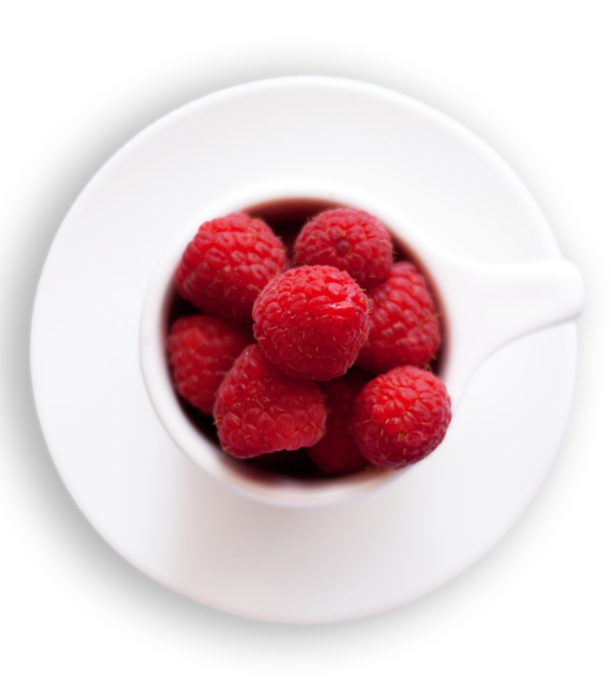
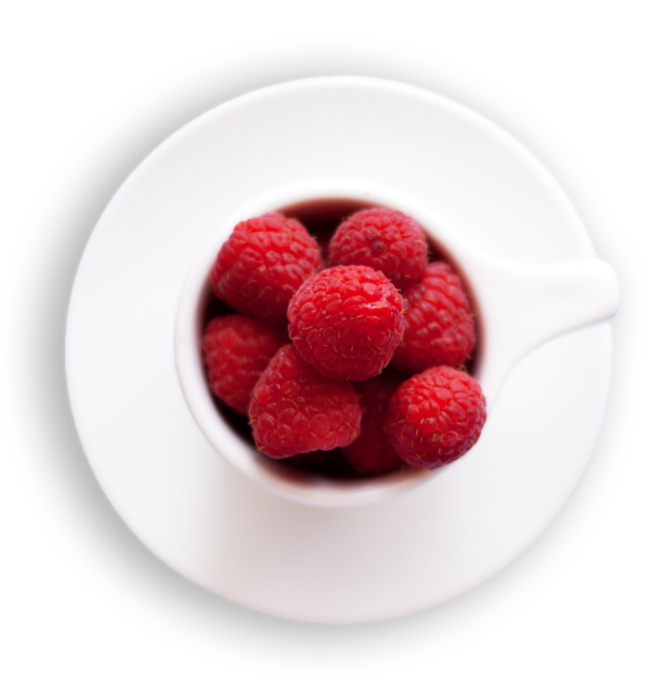
optimalization
need rework

Changed region(s): [[0.2177, 0.27, 0.7774, 0.72], [0.0, 0.12, 0.4043, 0.84], [0.311, 0.84, 0.3732, 0.87]]

diff --git a/index.html b/index.html
@@ -94,7 +94,6 @@
     <!-- ABOUT -->
     <section id="about" class="container-fluid about">
         <div class="row">
-            <!--    <img class="img-fluid col-lg-6 col-lg-offset-6 col-xs-12 col-sm-12 col-md-12" src="IMG/about__img.png" alt="About complany"> -->
 
             <div class="col-lg-6 col-xs-12 col-sm-12 col-md-6">
                 <!--  -->
@@ -103,7 +102,7 @@
 
             </div>
             <div class="col-xs-12 col-sm-12 col-md-6  col-lg-6 col-lg-offset-6 col-lg-push-6">
-                <img class="img-fluid" src="IMG/abb_03.png" alt="About company">
+                <img class="img-fluid" src="IMG/about__img.png" alt="About company">
 
             </div>
         </div>
@@ -169,67 +168,72 @@
 
         <form action="">
             <div class="row">
-                <div class="col-sm-12 col-xs-12 col-md-6 col-lg-6"> 
-                   <input class="contact__input" type="text" placeholder="Your name"></div>
-                    <div class="col-sm-12 col-xs-12 col-md-6 col-lg-6"> 
-                    <button class="btn btn-primary subscribe__btn">SUBSCRIBE</button></div></div>
+                <div class="col-sm-12 col-xs-12 col-md-6 col-lg-6">
+                    <input class="contact__input" type="text" placeholder="Your name"></div>
+                <div class="col-sm-12 col-xs-12 col-md-6 col-lg-6">
+                    <button class="btn btn-primary subscribe__btn">SUBSCRIBE</button></div>
+            </div>
         </form>
-        <img src="IMG/subscribe__img.png" alt="Subscribe" class="img-fluid"></div> </section>
+        <img src="IMG/subscribe__img.png" alt="Subscribe" class="img-fluid"></div>
+    </section>
 
 
-        <!-- BLOG -->
+    <!-- BLOG -->
 
-        <section id="blog" class="blog">
+    <section id="blog" class="blog">
 
-            <h1 class="blog__heading">Blog</h1>
-            <p>Dolore magna aliqua. Ut enim ad minim veniam, quis nostrud exercitation ullamco laboris nisi ut aliquip ex ea commodo consequat. Duis aute irure dolor in reprehenderit in voluptate velit.</p>
+        <h1 class="blog__heading">Blog</h1>
+        <p>Dolore magna aliqua. Ut enim ad minim veniam, quis nostrud exercitation ullamco laboris nisi ut aliquip ex ea commodo consequat. Duis aute irure dolor in reprehenderit in voluptate velit.</p>
 
-            <div class="row">
+        <div class="row">
 
-                <div class="col-xs-12 col-sm-12 col-md-12 col-lg-4 blog__item">
-                    <img class="center-block blog__img" src="IMG/blog__1.png" alt="Blog">
-                    <h2>Green Smoothies : Too Much of a Good Thing?</h2>
-                    <h3>By Simon - 2 hours ago</h3>
-                    <div>
-                        <time>20</time>
-                        <time>NOV</time>
-                    </div>
-                </div>
-
-                <div class="col-xs-12 col-sm-12 col-md-12 col-lg-4 blog__item">
-                    <img class="center-block blog__img" src="IMG/blog__2.png" alt="Blog">
-                    <h2>Growing Food and a "Thirst" for Innovation</h2>
-                    <h3>By Meliss - 3 hours ago</h3>
-                    <div>
-                        <time>14</time>
-                        <time>NOV</time>
-                    </div>
-                </div>
-
-                <div class="col-xs-12 col-sm-12 col-md-12 col-lg-4 blog__item">
-                    <img class="center-block blog__img" src="IMG/blog__3.png" alt="Blog">
-                    <h2>Pesticides &amp Food : What You Need to Know</h2>
-                    <h3>By Melania - 6 hours ago</h3>
-                    <div>
-                        <time>10</time>
-                        <time>NOV</time>
-                    </div>
+            <div class="col-xs-12 col-sm-12 col-md-12 col-lg-4 blog__item">
+                <img class="center-block blog__img" src="IMG/blog__1.png" alt="Blog">
+                <h2>Green Smoothies : Too Much of a Good Thing?</h2>
+                <h3>By Simon - 2 hours ago</h3>
+                <div>
+                    <time>20</time>
+                    <time>NOV</time>
                 </div>
             </div>
-            <button class="btn btn-primary">VIEW MORE</button>
-        </section>
 
-        <!-- CONTACT --->
+            <div class="col-xs-12 col-sm-12 col-md-12 col-lg-4 blog__item">
+                <img class="center-block blog__img" src="IMG/blog__2.png" alt="Blog">
+                <h2>Growing Food and a "Thirst" for Innovation</h2>
+                <h3>By Meliss - 3 hours ago</h3>
+                <div>
+                    <time>14</time>
+                    <time>NOV</time>
+                </div>
+            </div>
 
-        <section id="contact" class="container-fluid contact">
-            <h1>Contact</h1>
-            <p>For new projects, ideas, business or anything you'd like to discuss, contact with me!</p>
+            <div class="col-xs-12 col-sm-12 col-md-12 col-lg-4 blog__item">
+                <img class="center-block blog__img" src="IMG/blog__3.png" alt="Blog">
+                <h2>Pesticides &amp Food : What You Need to Know</h2>
+                <h3>By Melania - 6 hours ago</h3>
+                <div>
+                    <time>10</time>
+                    <time>NOV</time>
+                </div>
+            </div>
+        </div>
+        <button class="btn btn-primary">VIEW MORE</button>
+    </section>
+
+    <!-- CONTACT --->
+
+    <section id="contact" class="container-fluid contact">
+        <h1>Contact</h1>
+        <p>For new projects, ideas, business or anything you'd like to discuss, contact with me!</p>
+        <div class="row">
+
             <form action="" class="col-xs-12 col-sm-12 col-md-12 col-lg-6 contact__form">
                 <input class="contact__input" type="text" placeholder="Your name">
                 <input class="contact__input" type="text" placeholder="Your email">
                 <input class="contact__input" type="text" placeholder="Your phone number">
                 <textarea class="contact__input contact__form" name="" id="" cols="30" rows="10"></textarea>
             </form>
+
             <div class="col-xs-12 col-sm-12 col-md-12 col-lg-6">
                 <h2>ADDRESS</h2>
                 <h3>123 City name Street, City, Country</h3>
@@ -240,35 +244,37 @@
                 <h2>PHONE</h2>
                 <h3>+012 345 6789</h3>
             </div>
-        </section>
+        </div>
+    </section>
 
 
 
-        <footer class="container-fluid footer">
-            <div class="row">
-                <!-- footer -->
+    <footer class="container-fluid footer">
+        <div class="row">
+            <!-- footer -->
 
-                <p class="paragraph footer__company  col-xs-12 col-sm-12 col-md-4 col-lg-4">&copy 2017 Company. All right reserved </p>
-                <p class="paragraph footer__logo  col-xs-12 col-sm-12 col-md-4 col-lg-4">Cahee</p>
-                <p class="paragraph footer__made  col-xs-12 col-sm-12 col-md-4 col-lg-4">Made with<span class="footer__love"> love </span>by S I M O N</p>
-            </div>
-        </footer>
+            <p class="paragraph footer__company  col-xs-12 col-sm-12 col-md-4 col-lg-4">&copy 2017 Company. All right reserved </p>
+            <p class="paragraph footer__logo  col-xs-12 col-sm-12 col-md-4 col-lg-4">Cahee</p>
+            <p class="paragraph footer__made  col-xs-12 col-sm-12 col-md-4 col-lg-4">Made with<span class="footer__love"> love </span>by S I M O N</p>
+        </div>
+    </footer>
 
 
-        <!-- Bootstrap core JavaScript -->
-        <script src="vendor/jquery/jquery.min.js"></script>
-        <script src="vendor/bootstrap/js/bootstrap.bundle.min.js"></script>
-        <!-- Smooth scroll -->
-        <script>
-            $(document).on('click', 'a[href^="#"]', function(event) {
-                event.preventDefault();
+    <!-- Bootstrap core JavaScript -->
+    <script src="vendor/jquery/jquery.min.js"></script>
+    <script src="vendor/bootstrap/js/bootstrap.bundle.min.js"></script>
+   
+     <!-- Smooth scroll -->
+    <script>
+        $(document).on('click', 'a[href^="#"]', function(event) {
+            event.preventDefault();
 
-                $('html, body').animate({
-                    scrollTop: $($.attr(this, 'href')).offset().top
-                }, 500);
-            });
+            $('html, body').animate({
+                scrollTop: $($.attr(this, 'href')).offset().top
+            }, 500);
+        });
 
-        </script>
+    </script>
 </body>
 
 </html>

diff --git a/CSS/style.css b/CSS/style.css
@@ -329,8 +329,6 @@ services__img {
     margin-bottom: 30px;
 }
 
-.blog__img {}
-
 
 .blog__img {
     background: -webkit-linear-gradient(rgba(255, 255, 255, 0), rgba(0, 0, 0, 0.5));

diff --git a/README.md b/README.md
@@ -1,62 +1,1 @@
-# [Start Bootstrap - Bare](https://startbootstrap.com/template-overviews/bare/)
-
-[Bare](http://startbootstrap.com/template-overviews/bare/) is a bare HTML starter template for [Bootstrap](http://getbootstrap.com/) created by [Start Bootstrap](http://startbootstrap.com/). This template features predefined file paths for Bootstrap and jQuery, so you can quickly create Bootstrap websites.
-
-## Preview
-
-[![Bare Preview](https://startbootstrap.com/assets/img/templates/bare.jpg)](https://blackrockdigital.github.io/startbootstrap-bare/)
-
-**[View Live Preview](https://blackrockdigital.github.io/startbootstrap-bare/)**
-
-## Status
-
-[![GitHub license](https://img.shields.io/badge/license-MIT-blue.svg)](https://raw.githubusercontent.com/BlackrockDigital/startbootstrap-bare/master/LICENSE)
-[![npm version](https://img.shields.io/npm/v/startbootstrap-bare.svg)](https://www.npmjs.com/package/startbootstrap-bare)
-[![Build Status](https://travis-ci.org/BlackrockDigital/startbootstrap-bare.svg?branch=master)](https://travis-ci.org/BlackrockDigital/startbootstrap-bare)
-[![dependencies Status](https://david-dm.org/BlackrockDigital/startbootstrap-bare/status.svg)](https://david-dm.org/BlackrockDigital/startbootstrap-bare)
-[![devDependencies Status](https://david-dm.org/BlackrockDigital/startbootstrap-bare/dev-status.svg)](https://david-dm.org/BlackrockDigital/startbootstrap-bare?type=dev)
-
-## Download and Installation
-
-To begin using this template, choose one of the following options to get started:
-* [Download the latest release on Start Bootstrap](https://startbootstrap.com/template-overviews/bare/)
-* Install via npm: `npm i startbootstrap-bare`
-* Clone the repo: `git clone https://github.com/BlackrockDigital/startbootstrap-bare.git`
-* [Fork, Clone, or Download on GitHub](https://github.com/BlackrockDigital/startbootstrap-bare)
-
-## Usage
-
-### Basic Usage
-
-After downloading, simply edit the HTML and CSS files included with the template in your favorite text editor to make changes. These are the only files you need to worry about, you can ignore everything else! To preview the changes you make to the code, you can open the `index.html` file in your web browser.
-
-### Advanced Usage
-
-After installation, run `npm install` and then run `gulp dev` which will open up a preview of the template in your default browser, watch for changes to core template files, and live reload the browser when changes are saved. You can view the `gulpfile.js` to see which tasks are included with the dev environment.
-
-## Bugs and Issues
-
-Have a bug or an issue with this template? [Open a new issue](https://github.com/BlackrockDigital/startbootstrap-bare/issues) here on GitHub or leave a comment on the [template overview page at Start Bootstrap](http://startbootstrap.com/template-overviews/bare/).
-
-## Custom Builds
-
-You can hire Start Bootstrap to create a custom build of any template, or create something from scratch using Bootstrap. For more information, visit the **[custom design services page](https://startbootstrap.com/bootstrap-design-services/)**.
-
-## About
-
-Start Bootstrap is an open source library of free Bootstrap templates and themes. All of the free templates and themes on Start Bootstrap are released under the MIT license, which means you can use them for any purpose, even for commercial projects.
-
-* https://startbootstrap.com
-* https://twitter.com/SBootstrap
-
-Start Bootstrap was created by and is maintained by **[David Miller](http://davidmiller.io/)**, Owner of [Blackrock Digital](http://blackrockdigital.io/).
-
-* http://davidmiller.io
-* https://twitter.com/davidmillerskt
-* https://github.com/davidtmiller
-
-Start Bootstrap is based on the [Bootstrap](http://getbootstrap.com/) framework created by [Mark Otto](https://twitter.com/mdo) and [Jacob Thorton](https://twitter.com/fat).
-
-## Copyright and License
-
-Copyright 2013-2017 Blackrock Digital LLC. Code released under the [MIT](https://github.com/BlackrockDigital/startbootstrap-bare/blob/gh-pages/LICENSE) license.
+# Weekly webdev challenge #2
